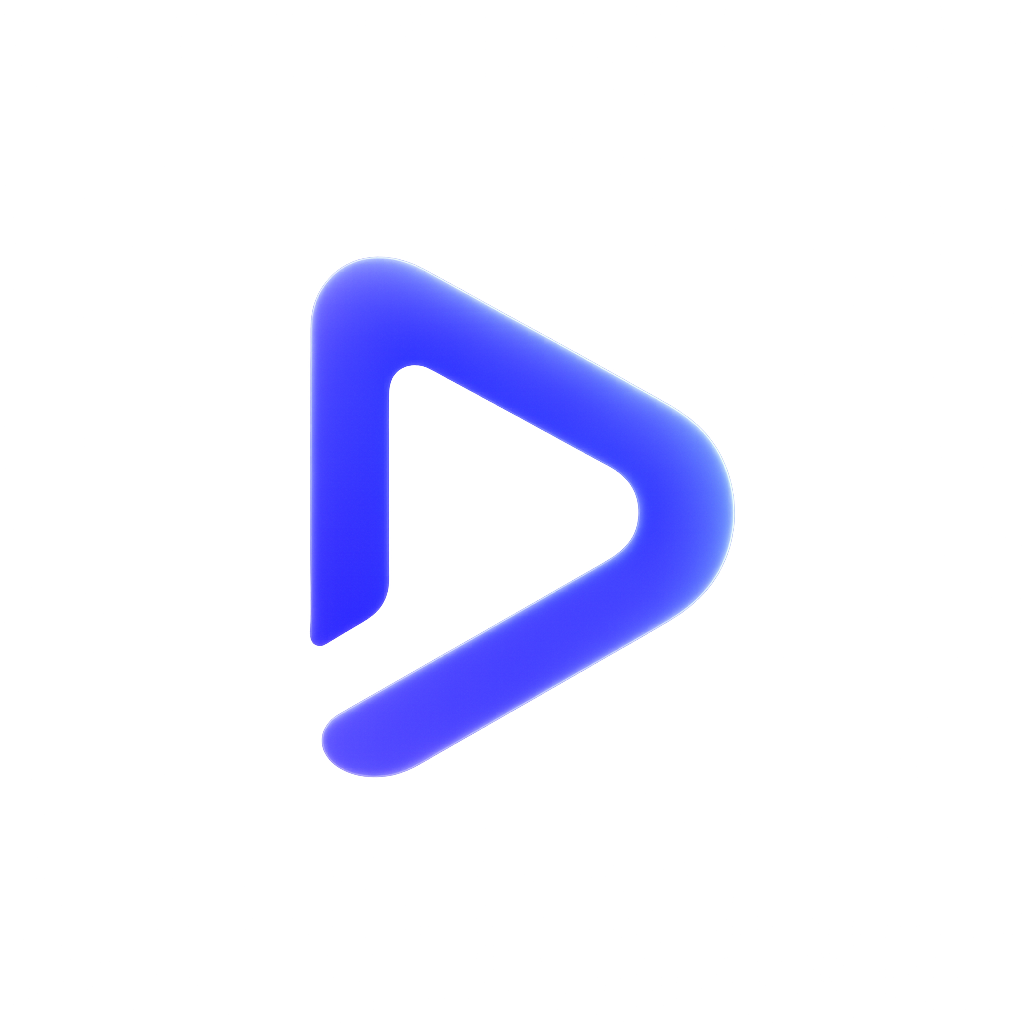
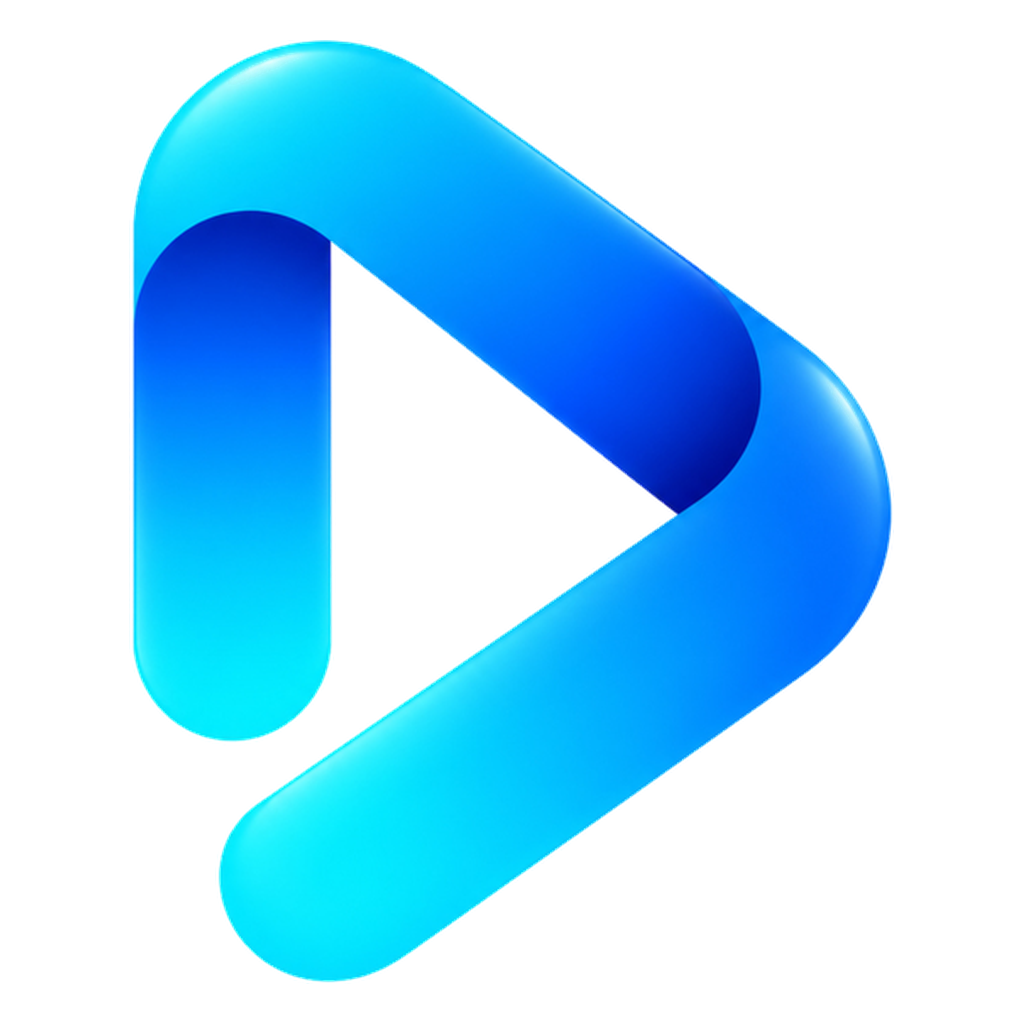
Use the new mark inside the app and in every splash animation
- assets/app_icon.png (sidebar, pill nav and TV nav logo) is now the new
  mark cut out of its icon tile, so it sits on dark chrome without a white
  square; the Android adaptive foreground and the splash lockup use it too.
  The full tiled icon lives in assets/app_icon_macos.png, which the macOS
  launcher-icon config now points at.
- identPlayPath, the mark every launch ident draws, is now the new mark's
  outline (traced from the icon, same ±0.40 height and -0.30 left edge), so
  all idents render the new logo in their own material. Origami folds its
  facets over the new mark, the inner-triangle sheens became a highlight on
  the mark (identMarkSheen), imprint/frost size their lockups to the new
  width, and the old blue-violet mark gradients now use the icon's
  cyan-to-blue.

Claude-Session: https://claude.ai/code/session_018KAQMjS9ocDpWwLgU1DgC3

diff --git a/lib/widgets/launch/launch_ident.dart b/lib/widgets/launch/launch_ident.dart
@@ -282,32 +282,108 @@ double identNoise(double x) {
   return v - v.floorToDouble();
 }
 
-/// Rounded right-pointing play triangle centred at the origin, inscribed in
-/// ±s/2. Same geometry as the shipped splash mark.
+/// The Debrify mark — a ribbon folded into a play symbol — as one closed
+/// outline traced from the app icon, centred vertically at the origin and
+/// sized like the triangle it replaced: ±0.40·s tall with its left edge at
+/// -0.30·s (lockups that butt the wordmark against that edge keep working).
+/// Points are in units of s; [identPlayPath] joins them with a closed
+/// Catmull-Rom spline so the ribbon's rounded ends stay smooth at any size.
+const List<Offset> _kMarkOutline = [
+  Offset(-0.1385, -0.4000),
+  Offset(-0.1665, -0.3968),
+  Offset(-0.1869, -0.3915),
+  Offset(-0.2141, -0.3796),
+  Offset(-0.2389, -0.3631),
+  Offset(-0.2592, -0.3439),
+  Offset(-0.2762, -0.3210),
+  Offset(-0.2877, -0.2988),
+  Offset(-0.2961, -0.2725),
+  Offset(-0.3000, -0.2402),
+  Offset(-0.3000, 0.1118),
+  Offset(-0.2987, 0.1254),
+  Offset(-0.2952, 0.1382),
+  Offset(-0.2837, 0.1603),
+  Offset(-0.2677, 0.1772),
+  Offset(-0.2490, 0.1885),
+  Offset(-0.2311, 0.1940),
+  Offset(-0.2082, 0.1951),
+  Offset(-0.1878, 0.1904),
+  Offset(-0.1650, 0.1776),
+  Offset(-0.1482, 0.1602),
+  Offset(-0.1374, 0.1399),
+  Offset(-0.1336, 0.1262),
+  Offset(-0.1317, 0.1084),
+  Offset(-0.1325, -0.2198),
+  Offset(-0.1305, -0.2247),
+  Offset(-0.1232, -0.2220),
+  Offset(0.1540, -0.0038),
+  Offset(0.1582, 0.0028),
+  Offset(0.1538, 0.0090),
+  Offset(-0.1912, 0.2465),
+  Offset(-0.2045, 0.2575),
+  Offset(-0.2130, 0.2674),
+  Offset(-0.2234, 0.2878),
+  Offset(-0.2269, 0.3099),
+  Offset(-0.2241, 0.3328),
+  Offset(-0.2142, 0.3558),
+  Offset(-0.2013, 0.3724),
+  Offset(-0.1818, 0.3873),
+  Offset(-0.1589, 0.3968),
+  Offset(-0.1342, 0.4000),
+  Offset(-0.1164, 0.3984),
+  Offset(-0.1028, 0.3951),
+  Offset(-0.0862, 0.3883),
+  Offset(-0.0693, 0.3784),
+  Offset(0.2841, 0.1279),
+  Offset(0.3097, 0.1015),
+  Offset(0.3280, 0.0718),
+  Offset(0.3351, 0.0548),
+  Offset(0.3403, 0.0370),
+  Offset(0.3444, 0.0021),
+  Offset(0.3427, -0.0200),
+  Offset(0.3389, -0.0387),
+  Offset(0.3261, -0.0735),
+  Offset(0.3045, -0.1076),
+  Offset(0.2781, -0.1343),
+  Offset(0.0757, -0.2837),
+  Offset(-0.0423, -0.3682),
+  Offset(-0.0628, -0.3806),
+  Offset(-0.0875, -0.3916),
+  Offset(-0.1070, -0.3968),
+];
+
+/// The Debrify mark centred at the origin, inscribed in ±s/2. Every ident
+/// paints this in its own material, so the mark reads the same everywhere.
 Path identPlayPath(double s) {
-  final pts = [
-    Offset(-0.30 * s, -0.40 * s),
-    Offset(-0.30 * s, 0.40 * s),
-    Offset(0.43 * s, 0),
-  ];
-  final r = 0.14 * s;
-  final path = Path();
-  for (int i = 0; i < 3; i++) {
-    final a = pts[i], b = pts[(i + 1) % 3], c = pts[(i + 2) % 3];
-    final v1 = a - b, v2 = c - b;
-    final l1 = v1.distance == 0 ? 1.0 : v1.distance;
-    final l2 = v2.distance == 0 ? 1.0 : v2.distance;
-    final t1 = b + v1 * (r / l1), t2 = b + v2 * (r / l2);
-    if (i == 0) {
-      path.moveTo(t1.dx, t1.dy);
-    } else {
-      path.lineTo(t1.dx, t1.dy);
-    }
-    path.quadraticBezierTo(b.dx, b.dy, t2.dx, t2.dy);
+  const pts = _kMarkOutline;
+  final n = pts.length;
+  final path = Path()..moveTo(pts[0].dx * s, pts[0].dy * s);
+  for (int i = 0; i < n; i++) {
+    final p0 = pts[(i - 1 + n) % n], p1 = pts[i];
+    final p2 = pts[(i + 1) % n], p3 = pts[(i + 2) % n];
+    final c1 = p1 + (p2 - p0) / 6, c2 = p2 - (p3 - p1) / 6;
+    path.cubicTo(c1.dx * s, c1.dy * s, c2.dx * s, c2.dy * s, p2.dx * s, p2.dy * s);
   }
   path.close();
   return path;
 }
+
+/// The mark's highlight: its upper-left part — the bar's top and the start of
+/// the upper fold, where the icon's gloss sits — for idents that lay a
+/// translucent sheen over the mark. Replaces the old half-size inner
+/// triangle, which on a ribbon would float in the mark's open middle.
+Path identMarkSheen(double s) => Path.combine(
+  PathOperation.intersect,
+  identPlayPath(s),
+  Path()
+    ..addOval(
+      Rect.fromCenter(
+        center: Offset(-0.16 * s, -0.24 * s),
+        width: 0.62 * s,
+        height: 0.50 * s,
+      ),
+    ),
+);
 
 /// Glow idiom: on TV two translucent strokes (the trick shipped in the
 /// original splash — no Gaussian over a TV-sized shape), elsewhere a real

diff --git a/lib/widgets/launch/origami_ident.dart b/lib/widgets/launch/origami_ident.dart
@@ -81,30 +81,50 @@ class _OrigamiPainter extends CustomPainter {
     _baseY = h / 2 + _u * 2.5;
     _g = _u * 3.0;
 
-    // Subdivide the play triangle at its edge midpoints.
+    // Fold a play triangle at its edge midpoints, then cut every facet to the
+    // Debrify mark: the triangle is sized to enclose the ribbon, so the four
+    // folds together paint exactly the mark. Done once per size, not per frame.
+    final mark = identPlayPath(_g);
     final p = [
-      Offset(-0.30 * _g, -0.40 * _g),
-      Offset(-0.30 * _g, 0.40 * _g),
-      Offset(0.43 * _g, 0),
+      Offset(-0.36 * _g, -0.56 * _g),
+      Offset(-0.36 * _g, 0.56 * _g),
+      Offset(0.64 * _g, 0),
     ];
     Offset mid(Offset a, Offset b) => (a + b) / 2;
     final m01 = mid(p[0], p[1]), m12 = mid(p[1], p[2]), m20 = mid(p[2], p[0]);
-    Path tri(Offset a, Offset b, Offset c) => Path()
-      ..moveTo(a.dx, a.dy)
-      ..lineTo(b.dx, b.dy)
-      ..lineTo(c.dx, c.dy)
-      ..close();
+    Path tri(Offset a, Offset b, Offset c) => Path.combine(
+      PathOperation.intersect,
+      Path()
+        ..moveTo(a.dx, a.dy)
+        ..lineTo(b.dx, b.dy)
+        ..lineTo(c.dx, c.dy)
+        ..close(),
+      mark,
+    );
+    // A crease is a hairline band, cut to the mark like the facets, so it
+    // never runs across the open space inside the ribbon.
+    final creaseW = max(1.0, _u * 0.02) / 2;
+    Path band(Offset a, Offset b) {
+      final d = b - a;
+      final n = Offset(-d.dy, d.dx) / d.distance * creaseW;
+      return Path()
+        ..moveTo((a + n).dx, (a + n).dy)
+        ..lineTo((b + n).dx, (b + n).dy)
+        ..lineTo((b - n).dx, (b - n).dy)
+        ..lineTo((a - n).dx, (a - n).dy)
+        ..close();
+    }
     _facets = [
       _Facet(tri(p[0], m01, m20), m20.dx, const Color(0xFFF4EFE4)),
       _Facet(tri(m01, p[1], m12), m12.dx, const Color(0xFFCFC5B2)),
       _Facet(tri(m20, m12, p[2]), m20.dx, const Color(0xFF8F8674)),
       _Facet(tri(m01, m12, m20), m01.dx, const Color(0xFFE3DAC8)),
     ];
-    _creases = Path()
-      ..moveTo(m01.dx, m01.dy)
-      ..lineTo(m12.dx, m12.dy)
-      ..moveTo(m20.dx, m20.dy)
-      ..lineTo(m12.dx, m12.dy);
+    _creases = Path.combine(
+      PathOperation.intersect,
+      Path.combine(PathOperation.union, band(m01, m12), band(m20, m12)),
+      mark,
+    );
 
     _word = IdentWordLayout.fit(
       styleFor: (fz) => TextStyle(
@@ -151,10 +171,7 @@ class _OrigamiPainter extends CustomPainter {
     if (set > 0) {
       canvas.drawPath(
         _creases,
-        Paint()
-          ..style = PaintingStyle.stroke
-          ..strokeWidth = max(1, _u * 0.02)
-          ..color = Color.fromRGBO(28, 22, 16, 0.35 * set),
+        Paint()..color = Color.fromRGBO(28, 22, 16, 0.35 * set),
       );
     }
     canvas.restore();

diff --git a/lib/widgets/launch/imprint_ident.dart b/lib/widgets/launch/imprint_ident.dart
@@ -267,7 +267,7 @@ class _ImprintPainter extends CustomPainter {
     // portrait it collapses the mark to a single letter's size.
     final s0 = min(h * 0.105, w * 0.120);
     // Reserve the inline mark and its gap before fitting the word.
-    const reserve = 0.74 * 0.73 + 0.42;
+    const reserve = 0.74 * 0.645 + 0.42;
     _word = IdentWordLayout.fit(
       styleFor: (fz) => TextStyle(
         fontSize: fz,
@@ -282,11 +282,11 @@ class _ImprintPainter extends CustomPainter {
     // The lockup stays proportional if fit() had to shrink the type.
     _s = _word!.fontSize;
     _markSize = _s * 0.74;
-    final markW = _markSize * 0.73;
+    final markW = _markSize * 0.645;
     final gap = _s * 0.42;
     final total = markW + gap + _word!.width;
     final left = w / 2 - total / 2;
-    // identPlayPath spans -0.30s..0.43s, so its left edge sits 0.30s left of
+    // identPlayPath spans -0.30s..0.345s, so its left edge sits 0.30s left of
     // the centre it is drawn about.
     _markCx = left + _markSize * 0.30;
     _wordLeft = left + markW + gap;

diff --git a/lib/widgets/launch/horizon_ident.dart b/lib/widgets/launch/horizon_ident.dart
@@ -83,8 +83,8 @@ class _HorizonPainter extends CustomPainter {
 
   /// The burning ring and the condensing wordmark. A themed palette moves the
   /// hue; the collapse geometry, the star count and the timeline do not move.
-  static const _ownRingInner = Color(0xFF4F74FF);
-  static const _ownRingOuter = Color(0xFF8A5CFF);
+  static const _ownRingInner = Color(0xFF12C8FE);
+  static const _ownRingOuter = Color(0xFF0A5BEA);
   static const _ownMarkInk = Color(0xFFD9DEFF);
 
   Color get _ringInner => palette?.accent ?? _ownRingInner;
@@ -136,7 +136,7 @@ class _HorizonPainter extends CustomPainter {
     _dimBuf = Float32List(count * 4);
     _brightBuf = Float32List(count * 4);
     _mark = identPlayPath(_g);
-    _inner = identPlayPath(_g * 0.52);
+    _inner = identMarkSheen(_g);
     _markRect = Rect.fromCenter(center: Offset.zero, width: _g, height: _g);
     // No longer `const`: the two stops now come from the palette when one is
     // supplied. Still built once per (size, TV-flag) in `_build`, so this is

diff --git a/lib/widgets/launch/frost_ident.dart b/lib/widgets/launch/frost_ident.dart
@@ -297,7 +297,7 @@ class _FrostPainter extends CustomPainter {
     // 16:9 identUnit goes width-driven while type stays height-driven, and in
     // portrait it collapses the mark to a single letter's size.
     final s0 = min(h * 0.105, w * 0.120);
-    const reserve = 0.74 * 0.73 + 0.42;
+    const reserve = 0.74 * 0.645 + 0.42;
     _word = IdentWordLayout.fit(
       styleFor: (fz) => TextStyle(
         fontSize: fz,
@@ -311,11 +311,11 @@ class _FrostPainter extends CustomPainter {
     );
     _s = _word!.fontSize;
     _markSize = _s * 0.74;
-    final markW = _markSize * 0.73;
+    final markW = _markSize * 0.645;
     final gap = _s * 0.42;
     _total = markW + gap + _word!.width;
     final left = w / 2 - _total / 2;
-    // identPlayPath spans -0.30s..0.43s, so its left edge sits 0.30s left of
+    // identPlayPath spans -0.30s..0.345s, so its left edge sits 0.30s left of
     // the centre it is drawn about.
     _markCx = left + _markSize * 0.30;
     _wordLeft = left + markW + gap;

diff --git a/lib/widgets/launch/monogram_ident.dart b/lib/widgets/launch/monogram_ident.dart
@@ -65,10 +65,10 @@ class _MonogramPainter extends CustomPainter {
     _r = min(w, h) * 0.17;
     final s = _r * 0.74;
     _markFull = identPlayPath(s);
-    _markInner = identPlayPath(s * 0.52);
+    _markInner = identMarkSheen(s);
     _markRect = Rect.fromLTRB(-s / 2, 0, s / 2, 1);
     _markShader = LinearGradient(
-      colors: const [Color(0xFF4F74FF), Color(0xFF8A5CFF)],
+      colors: const [Color(0xFF12C8FE), Color(0xFF0A5BEA)],
     ).createShader(_markRect);
     _word = IdentWordLayout.fit(
       styleFor: (fz) => TextStyle(
@@ -142,8 +142,8 @@ class _MonogramPainter extends CustomPainter {
           ..shader = mk >= 1
               ? _markShader
               : LinearGradient(colors: [
-                  Color.fromRGBO(79, 116, 255, mk),
-                  Color.fromRGBO(138, 92, 255, mk),
+                  Color.fromRGBO(18, 200, 254, mk),
+                  Color.fromRGBO(10, 91, 234, mk),
                 ]).createShader(_markRect),
       );
       canvas.drawPath(

diff --git a/lib/widgets/launch/drop_bounce_ident.dart b/lib/widgets/launch/drop_bounce_ident.dart
@@ -63,7 +63,7 @@ class DropBouncePainter extends CustomPainter {
       : super(repaint: animation);
 
   static const LinearGradient _glyphGradient = LinearGradient(
-    colors: [Color(0xFF4F74FF), Color(0xFF6E6BFF), Color(0xFF8A5CFF)],
+    colors: [Color(0xFF1EEBFD), Color(0xFF06AAFD), Color(0xFF0A5BEA)],
     stops: [0, 0.5, 1],
   );
 
@@ -140,7 +140,7 @@ class DropBouncePainter extends CustomPainter {
     }
 
     final glyphPath = identPlayPath(glyphSize);
-    final innerPath = identPlayPath(glyphSize * 0.52);
+    final innerPath = identMarkSheen(glyphSize);
     final glyphShader = _glyphGradient.createShader(
       Rect.fromCenter(center: Offset.zero, width: glyphSize, height: glyphSize),
     );

diff --git a/lib/widgets/launch/ripple_ident.dart b/lib/widgets/launch/ripple_ident.dart
@@ -90,7 +90,7 @@ class _RipplePainter extends CustomPainter {
     _g = _u * 2.4;
     _slices = lightweight ? 5 : 12;
     _mark = identPlayPath(_g);
-    _inner = identPlayPath(_g * 0.52);
+    _inner = identMarkSheen(_g);
     _markRect = Rect.fromCenter(center: Offset.zero, width: _g, height: _g);
     _markShader = const LinearGradient(
       colors: [Color(0xFF5B7BFF), Color(0xFF9C7BFF)],

diff --git a/lib/widgets/launch/collider_ident.dart b/lib/widgets/launch/collider_ident.dart
@@ -286,7 +286,7 @@ class _ColliderPainter extends CustomPainter {
     _bBright = Float32List(count * 4);
 
     _mark = identPlayPath(g);
-    _markInner = identPlayPath(g * 0.52);
+    _markInner = identMarkSheen(g);
     _markRect = Rect.fromCenter(center: Offset.zero, width: g, height: g);
     // The fusion: the mark is literally drawn in both galaxies' colours.
     _markShader =

diff --git a/lib/widgets/launch/aperture_ident.dart b/lib/widgets/launch/aperture_ident.dart
@@ -76,7 +76,7 @@ class _AperturePainter extends CustomPainter {
     _g = _u * 2.9;
     _r = sqrt(w * w + h * h);
     _mark = identPlayPath(_g);
-    _bevel = identPlayPath(_g * 0.55);
+    _bevel = identMarkSheen(_g);
     _markRect = Rect.fromCenter(
         center: Offset.zero, width: _g * 0.86, height: _g * 0.86);
     _markShader = const LinearGradient(
